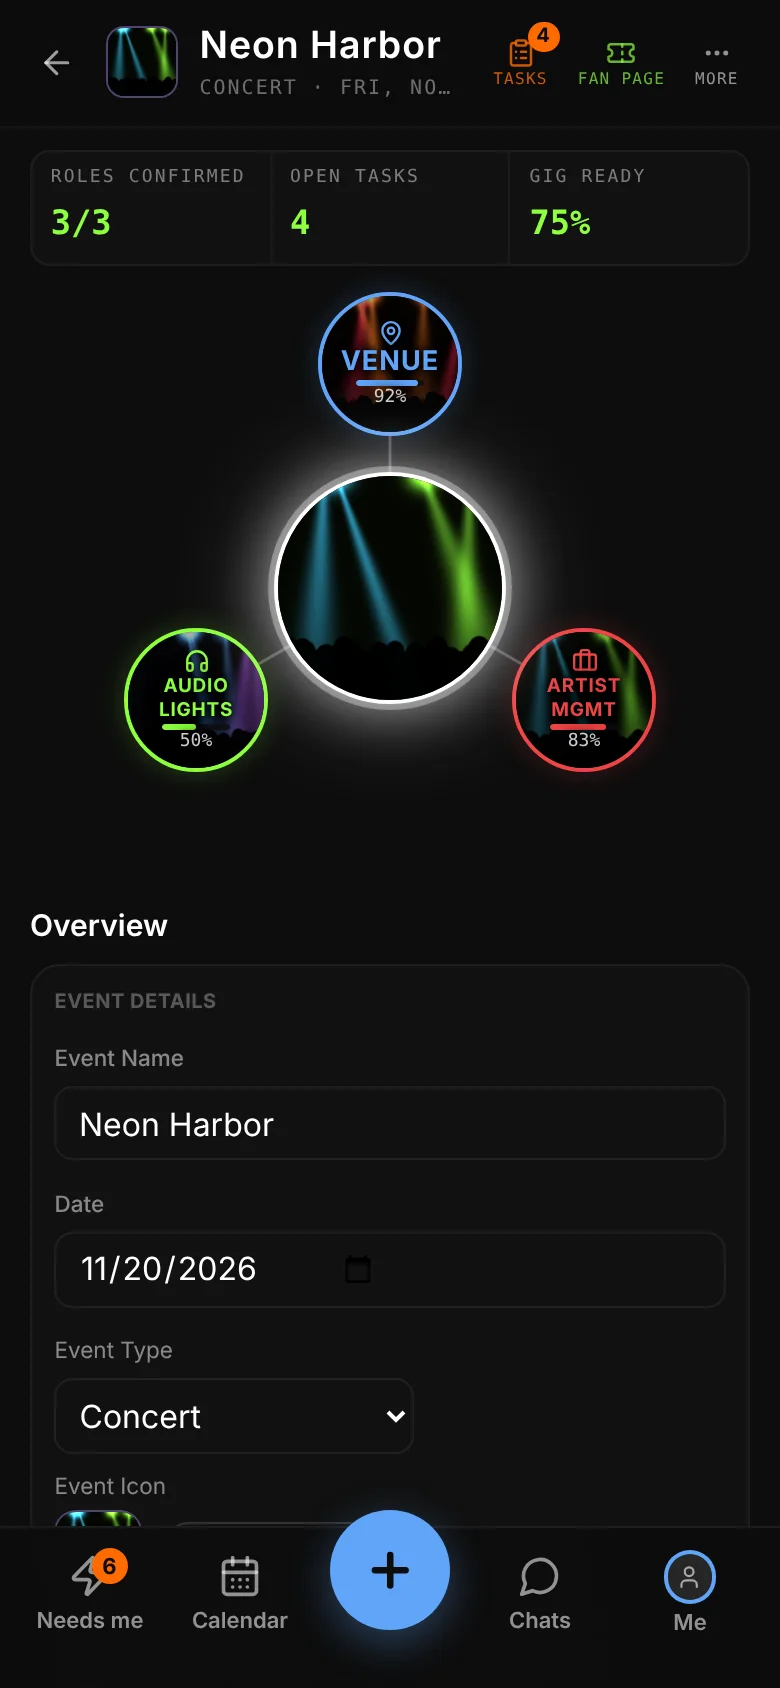
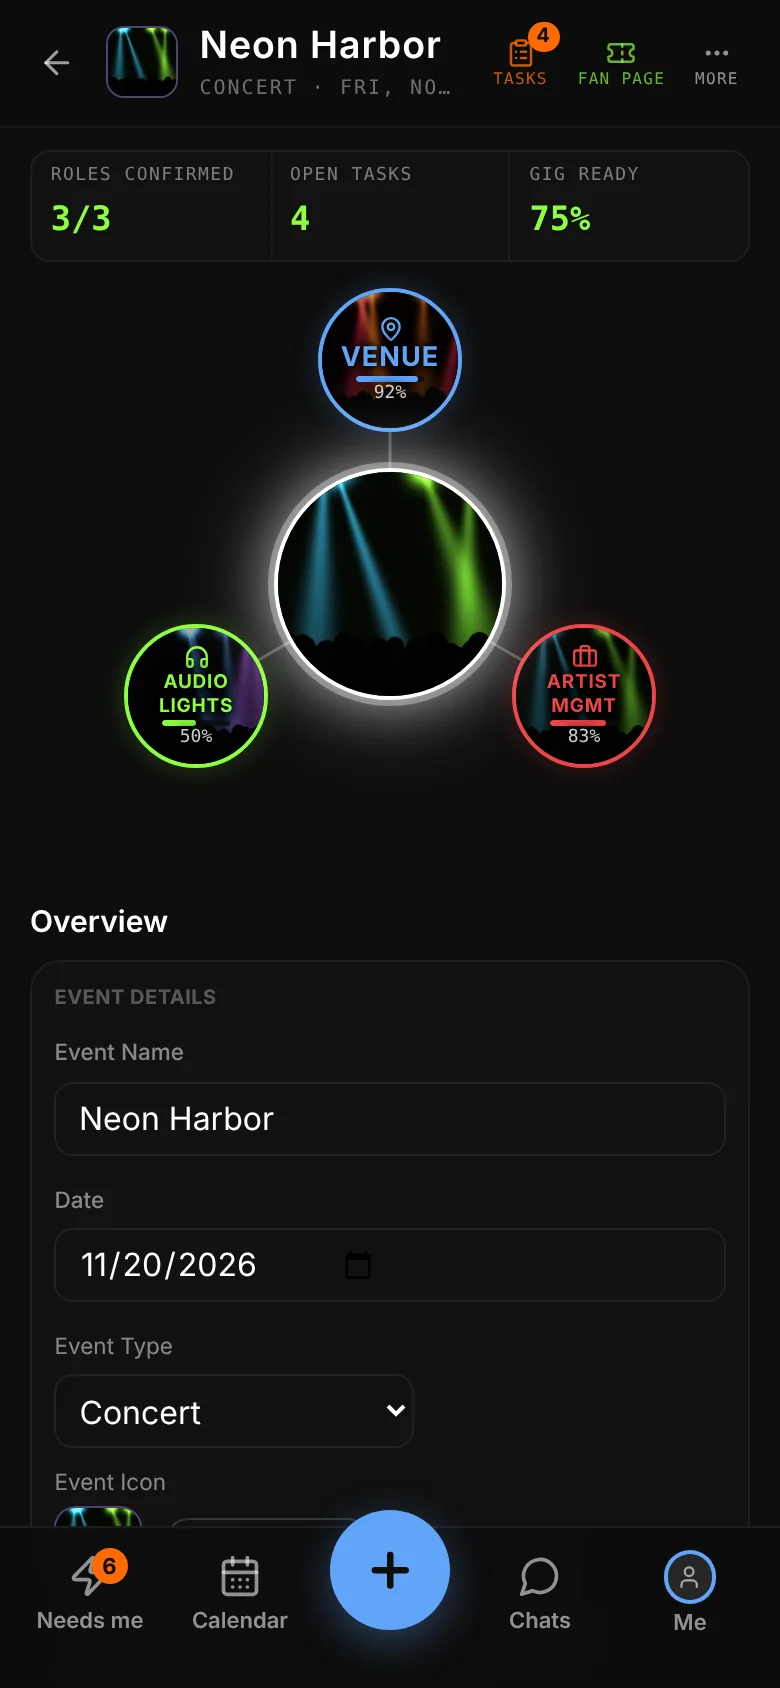
Event web Board: nothing runs off a narrow board; header stat labels show in full (job 382)
- Board's event row (name, date, type): wraps instead of using fixed
  150 / 130px boxes, so on a narrow board the name keeps its room and the
  type no longer runs off the edge ("Conc..."). Ticket link / venue
  website stack when there's no room for two.
- Run of show: the time column fits its text (was 88px) and names wrap
  to two lines instead of "Arti..." / "Soundch...".
- Status strip: labels wrap (ROLES CONFIRMED) instead of cutting off;
  values line up at the bottom.
- get.showpilot.space: event web screens retaken.

Claude-Session: https://claude.ai/code/session_011F6hS4tKCc4ba8UPZXku15

diff --git a/src/pages/GigWeb.jsx b/src/pages/GigWeb.jsx
@@ -1247,10 +1247,10 @@ function EventDetailsEditor({ token, gig, onChanged, onIconChanged, compact = fa
   };
 
   const linkFields = (
-    <div className={compact ? "mt-1.5 grid grid-cols-2 gap-1.5" : "mt-3 space-y-2"}>
+    <div className={compact ? "mt-1.5 grid grid-cols-[repeat(auto-fit,minmax(180px,1fr))] gap-1.5" : "mt-3 space-y-2"}>
       <EventLinkInput icon={Ticket} label="Ticket link" placeholder="Where fans buy tickets" value={ticketLink} onChange={(v) => { setTicketLink(v); setLinkError(""); }} onEnter={save} />
       <EventLinkInput icon={Globe} label="Venue website" placeholder="The venue's website" value={venueSite} onChange={(v) => { setVenueSite(v); setLinkError(""); }} onEnter={save} />
-      {linkError && <p className={`text-red-400 text-[11px] m-0 ${compact ? "col-span-2 px-1" : ""}`}>{linkError}</p>}
+      {linkError && <p className={`text-red-400 text-[11px] m-0 ${compact ? "col-span-full px-1" : ""}`}>{linkError}</p>}
     </div>
   );
 
@@ -1258,7 +1258,8 @@ function EventDetailsEditor({ token, gig, onChanged, onIconChanged, compact = fa
     const inCls = "min-w-0 bg-transparent border border-transparent hover:border-[#2a2a2a] focus:border-white/30 rounded-md px-2 py-1 text-white outline-none";
     return (
       <div className="mb-3">
-        <div className="flex items-center gap-2.5 px-2.5 py-2 rounded-xl border border-[#262626] bg-[#111]">
+        {/* Wraps on a narrow board, so the name, date and type always stay inside it (job 382). */}
+        <div className="flex flex-wrap items-center gap-x-2.5 gap-y-1 px-2.5 py-2 rounded-xl border border-[#262626] bg-[#111]">
           <label className="relative shrink-0 cursor-pointer group" title={gig.icon_url ? "Change event image" : "Add an event image"}>
             <EventTypeIcon type={gig.event_type || "Other"} imageUrl={gig.icon_url} size={36} />
             <span className="absolute inset-0 rounded-lg flex items-center justify-center bg-black/60 text-[9px] font-bold tracking-[0.06em] text-white opacity-0 group-hover:opacity-100 transition-opacity" style={{ fontFamily: SCENE_MONO }}>{iconBusy ? "..." : "EDIT"}</span>
@@ -1270,21 +1271,21 @@ function EventDetailsEditor({ token, gig, onChanged, onIconChanged, compact = fa
             onKeyDown={(e) => { if (e.key === "Enter") save(); }}
             placeholder="Event name"
             aria-label="Event name"
-            className={`${inCls} flex-1 text-[16px] font-semibold placeholder:text-white/30`}
+            className={`${inCls} flex-1 min-w-[150px] text-[16px] font-semibold placeholder:text-white/30`}
           />
           <input
             type="date"
             value={date}
             onChange={(e) => setDate(e.target.value)}
             aria-label="Date"
-            className={`${inCls} shrink-0 w-[150px] text-[14px] text-white/80 [color-scheme:dark]`}
+            className={`${inCls} flex-1 min-w-[132px] max-w-[160px] text-[14px] text-white/80 [color-scheme:dark]`}
             style={{ fontFamily: SCENE_MONO }}
           />
           <select
             value={eventType}
             onChange={(e) => setEventType(e.target.value)}
             aria-label="Event type"
-            className={`${inCls} shrink-0 w-[130px] text-[14px] text-white/80 bg-[#111]`}
+            className={`${inCls} flex-1 min-w-[110px] max-w-[140px] text-[14px] text-white/80 bg-[#111]`}
           >
             {!eventType && <option value="">Event type</option>}
             {typeOptions.map((t) => <option key={t} value={t}>{t}</option>)}

diff --git a/src/components/showpilot/BoardOverview.jsx b/src/components/showpilot/BoardOverview.jsx
@@ -81,10 +81,11 @@ export default function BoardOverview({ gig, nodes = [], isOwner = false, userId
               const [role, key] = rosTarget(r);
               const c = r.kind === "curfew" ? "#F87171" : colorOf(role);
               return (
-                <button key={i} type="button" onClick={() => onGo(role, key)} className="w-full grid grid-cols-[88px_10px_minmax(0,1fr)_auto] items-center gap-2.5 px-3 py-2 text-left hover:bg-white/[0.03]">
+                <button key={i} type="button" onClick={() => onGo(role, key)} className="w-full grid grid-cols-[auto_8px_minmax(0,1fr)_auto] items-center gap-2.5 px-3 py-2 text-left hover:bg-white/[0.03]">
                   <span className="text-[13px] text-white/75" style={{ fontFamily: SCENE_MONO }}>{r.time || "—"}</span>
                   <span className="w-2 h-2 rounded-full" style={{ background: c }} />
-                  <span className="text-[15px] truncate" style={r.kind === "curfew" ? { color: "#FCA5A5" } : undefined}>{r.label || "—"}</span>
+                  {/* Whole name shows, on two lines if it needs them (job 382). */}
+                  <span className="text-[15px] leading-tight line-clamp-2 break-words" style={r.kind === "curfew" ? { color: "#FCA5A5" } : undefined}>{r.label || "—"}</span>
                   <span className="text-[10px] tracking-[0.1em]" style={{ fontFamily: SCENE_MONO, color: colorOf(role) }}>{r.kind === "set" ? "ARTIST" : labelOf(role).toUpperCase()}</span>
                 </button>
               );

diff --git a/src/components/showpilot/StatusStrip.jsx b/src/components/showpilot/StatusStrip.jsx
@@ -11,9 +11,10 @@ export default function StatusStrip({ cells }) {
   return (
     <div className="flex bg-[#111111] border border-[#1f1f1f] rounded-[10px] overflow-hidden">
       {cells.map((c, i) => (
-        <div key={c.label} className={`flex-1 min-w-0 px-2.5 pt-[7px] pb-2 ${i < cells.length - 1 ? "border-r border-[#1c1c1c]" : ""}`}>
-          <div className="text-[9px] tracking-[0.12em] text-white/45 whitespace-nowrap truncate" style={{ fontFamily: SCENE_MONO }}>{c.label}</div>
-          <div className="text-lg font-semibold mt-0.5" style={{ fontFamily: SCENE_MONO, color: VALUE_COLOR }}>{c.value}</div>
+        <div key={c.label} className={`flex-1 min-w-0 flex flex-col px-2.5 pt-[7px] pb-2 ${i < cells.length - 1 ? "border-r border-[#1c1c1c]" : ""}`}>
+          {/* The whole label shows, on two lines if it needs them; values line up at the bottom (job 382). */}
+          <div className="text-[9px] leading-tight tracking-[0.08em] text-white/45" style={{ fontFamily: SCENE_MONO }}>{c.label}</div>
+          <div className="text-lg font-semibold mt-auto pt-0.5" style={{ fontFamily: SCENE_MONO, color: VALUE_COLOR }}>{c.value}</div>
         </div>
       ))}
     </div>
